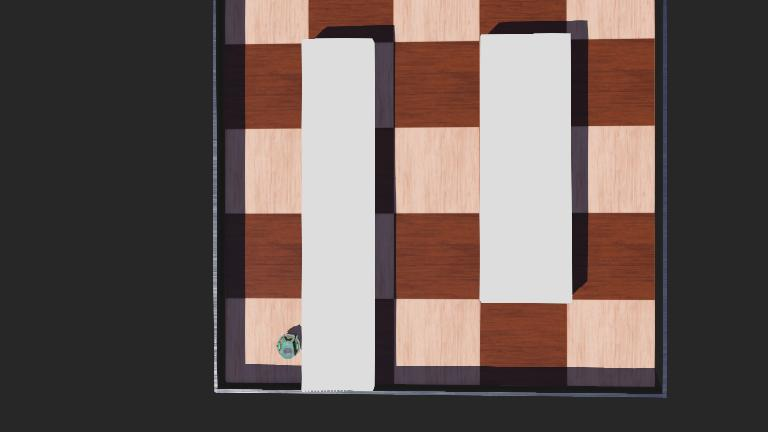
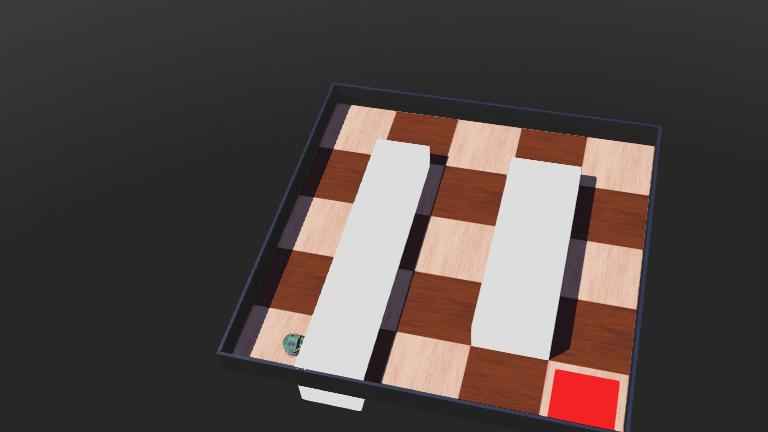
feat: enhance controller_robot_sensor_4 with camera integration for red color detection and update project files

diff --git a/Bab-04_WeBots/latihan_01/controllers/controller_robot_sensor_4/controller_robot_sensor_4.c b/Bab-04_WeBots/latihan_01/controllers/controller_robot_sensor_4/controller_robot_sensor_4.c
@@ -1,11 +1,12 @@
 /*
  * File:          controller_robot_sensor_4.c
- * Description:   Controller Robot Sensor 4 - Right Wall Follower
+ * Description:   Right Wall Followear + berhenti saat merah menyentuh tepi bawah kamera
  */
 
 #include <webots/robot.h>
 #include <webots/motor.h>
 #include <webots/distance_sensor.h>
+#include <webots/camera.h>
 #include <stdio.h>
 #include <stdbool.h>
 
@@ -13,9 +14,26 @@
 #define MAX_SPEED 6.28
 #define OBSTACLE_THRESHOLD 80.0
 
+#define BOTTOM_ROWS 2          // Jumlah baris paling bawah yang dicek
+#define RED_PIXEL_THRESHOLD 5  // Minimal piksel merah di baris bawah itu
+
 void set_speeds(WbDeviceTag left_motor, WbDeviceTag right_motor, double left_speed, double right_speed) {
   wb_motor_set_velocity(left_motor, left_speed);
   wb_motor_set_velocity(right_motor, right_speed);
+}
+
+/*
+ * Fungsi pembantu untuk menunggu selama sejumlah detik (dalam waktu simulasi Webots).
+ * Mengembalikan false jika simulasi dihentikan/selesai oleh pengguna.
+ */
+bool wait_seconds(double duration) {
+  double start_time = wb_robot_get_time();
+  while (wb_robot_get_time() - start_time < duration) {
+    if (wb_robot_step(TIME_STEP) == -1) {
+      return false; // Simulasi selesai atau jendela ditutup
+    }
+  }
+  return true;
 }
 
 int main(int argc, char **argv) {
@@ -32,6 +50,11 @@ int main(int argc, char **argv) {
     wb_distance_sensor_enable(ps[i], TIME_STEP);
   }
 
+  WbDeviceTag camera = wb_robot_get_device("camera");
+  wb_camera_enable(camera, TIME_STEP);
+  int cam_width = wb_camera_get_width(camera);
+  int cam_height = wb_camera_get_height(camera);
+
   wb_motor_set_position(kanan_actuator, INFINITY);
   wb_motor_set_position(kiri_actuator, INFINITY);
   set_speeds(kiri_actuator, kanan_actuator, 0.0, 0.0);
@@ -43,30 +66,49 @@ int main(int argc, char **argv) {
     for (int i = 0; i < 8; i++)
       ps_values[i] = wb_distance_sensor_get_value(ps[i]);
 
-    /* Deteksi dinding */
+    /* Hitung piksel merah HANYA di baris paling bawah kamera */
+    const unsigned char *image = wb_camera_get_image(camera);
+    int red_bottom_pixels = 0;
+    if (image) {
+      for (int x = 0; x < cam_width; x++) {
+        for (int y = cam_height - BOTTOM_ROWS; y < cam_height; y++) {
+          int r = wb_camera_image_get_red(image, cam_width, x, y);
+          int g = wb_camera_image_get_green(image, cam_width, x, y);
+          int b = wb_camera_image_get_blue(image, cam_width, x, y);
+
+          if (r > 140 && g < 65 && b < 65 && (r - g > 80) && (r - b > 80)) {
+            red_bottom_pixels++;
+          }
+        }
+      }
+    }
+
+    bool red_detected = (red_bottom_pixels > RED_PIXEL_THRESHOLD);
+
     bool front_wall   = (ps_values[0] > OBSTACLE_THRESHOLD) || (ps_values[7] > OBSTACLE_THRESHOLD);
-    bool right_wall   = ps_values[2] > OBSTACLE_THRESHOLD;  /* samping kanan 90° */
-    bool right_corner = ps_values[1] > OBSTACLE_THRESHOLD;  /* serong kanan 45° */
+    bool right_wall   = ps_values[2] > OBSTACLE_THRESHOLD;
+    bool right_corner = ps_values[1] > OBSTACLE_THRESHOLD;
 
     double left_speed  = MAX_SPEED;
     double right_speed = MAX_SPEED;
 
-    if (front_wall) {
-      /* Buntu di depan -> putar kiri di tempat */
+    if (red_detected) {
+      if (!wait_seconds(1.5)) break;
+      left_speed  = 0.0;
+      right_speed = 0.0;
+      printf("[Kamera] Merah menyentuh tepi bawah (%d piksel) -> BERHENTI!\n", red_bottom_pixels);
+    } else if (front_wall) {
       left_speed  = -MAX_SPEED;
       right_speed =  MAX_SPEED;
     } else {
       if (right_wall) {
-        /* Dinding kanan ada -> jalan lurus */
         left_speed  = MAX_SPEED;
         right_speed = MAX_SPEED;
       } else {
-        /* Dinding kanan hilang -> belok kanan pelan buat cari dinding lagi */
         left_speed  = MAX_SPEED;
         right_speed = MAX_SPEED / 8.0;
       }
       if (right_corner) {
-        /* Terlalu dekat dinding kanan -> geser sedikit ke kiri */
         left_speed  = MAX_SPEED / 8.0;
         right_speed = MAX_SPEED;
       }

diff --git a/DANISH_AI_AGENT.md b/DANISH_AI_AGENT.md
@@ -33,13 +33,12 @@ Coursework repository for Robotics Simulation (Simulasi Robotika TI-3A), contain
 
 ## Known gotchas
 - Arduino Uno pins 12 & 13 do NOT support hardware PWM; software PWM via `micros()` is required (see Bab-01 Program 09).
-- `controller_robot_sensor_4.c` uses continuous reactive right-wall following with arc cornering (`MAX_SPEED, 0.25 * MAX_SPEED`).
+- `controller_robot_sensor_4.c` uses a 3-rule reactive right-wall follower integrated with E-puck camera red color detection to stop upon reaching the goal.
 
 ## Changelog (newest first, 1 line per entry, NOT a diff)
-- 2026-10-09: Reverted controller_robot_sensor_4.c back to smooth reactive wall follower with arc cornering.
-- 2026-10-09: Implemented smooth reactive right-wall follower in controller_robot_sensor_4.c.
-- 2026-10-09: Fixed syntax error (dangling ||) and variable names (psX_val) in controller_robot_sensor_4.c.
-- 2026-10-09: Updated controller_robot_sensor_3 with right-side sensor ps2 and left-turn avoidance logic.
+- 2026-10-09: Made floor red detection strict (r>140, g<65, b<65, r-g>80) to reject brown wood tiles in controller_robot_sensor_4.c.
+- 2026-10-09: Focused camera red detection to lower half in controller_robot_sensor_4.c.
+- 2026-10-09: Verified working elegant 3-rule right-wall follower in controller_robot_sensor_4.c.
 - 2026-10-09: Added obstacle stop logic (OBSTACLE_THRESHOLD 80.0) in controller_robot_sensor.c.
 - 2026-10-09: Initialized DANISH_AI_AGENT.md context after repository-wide scan.
 
